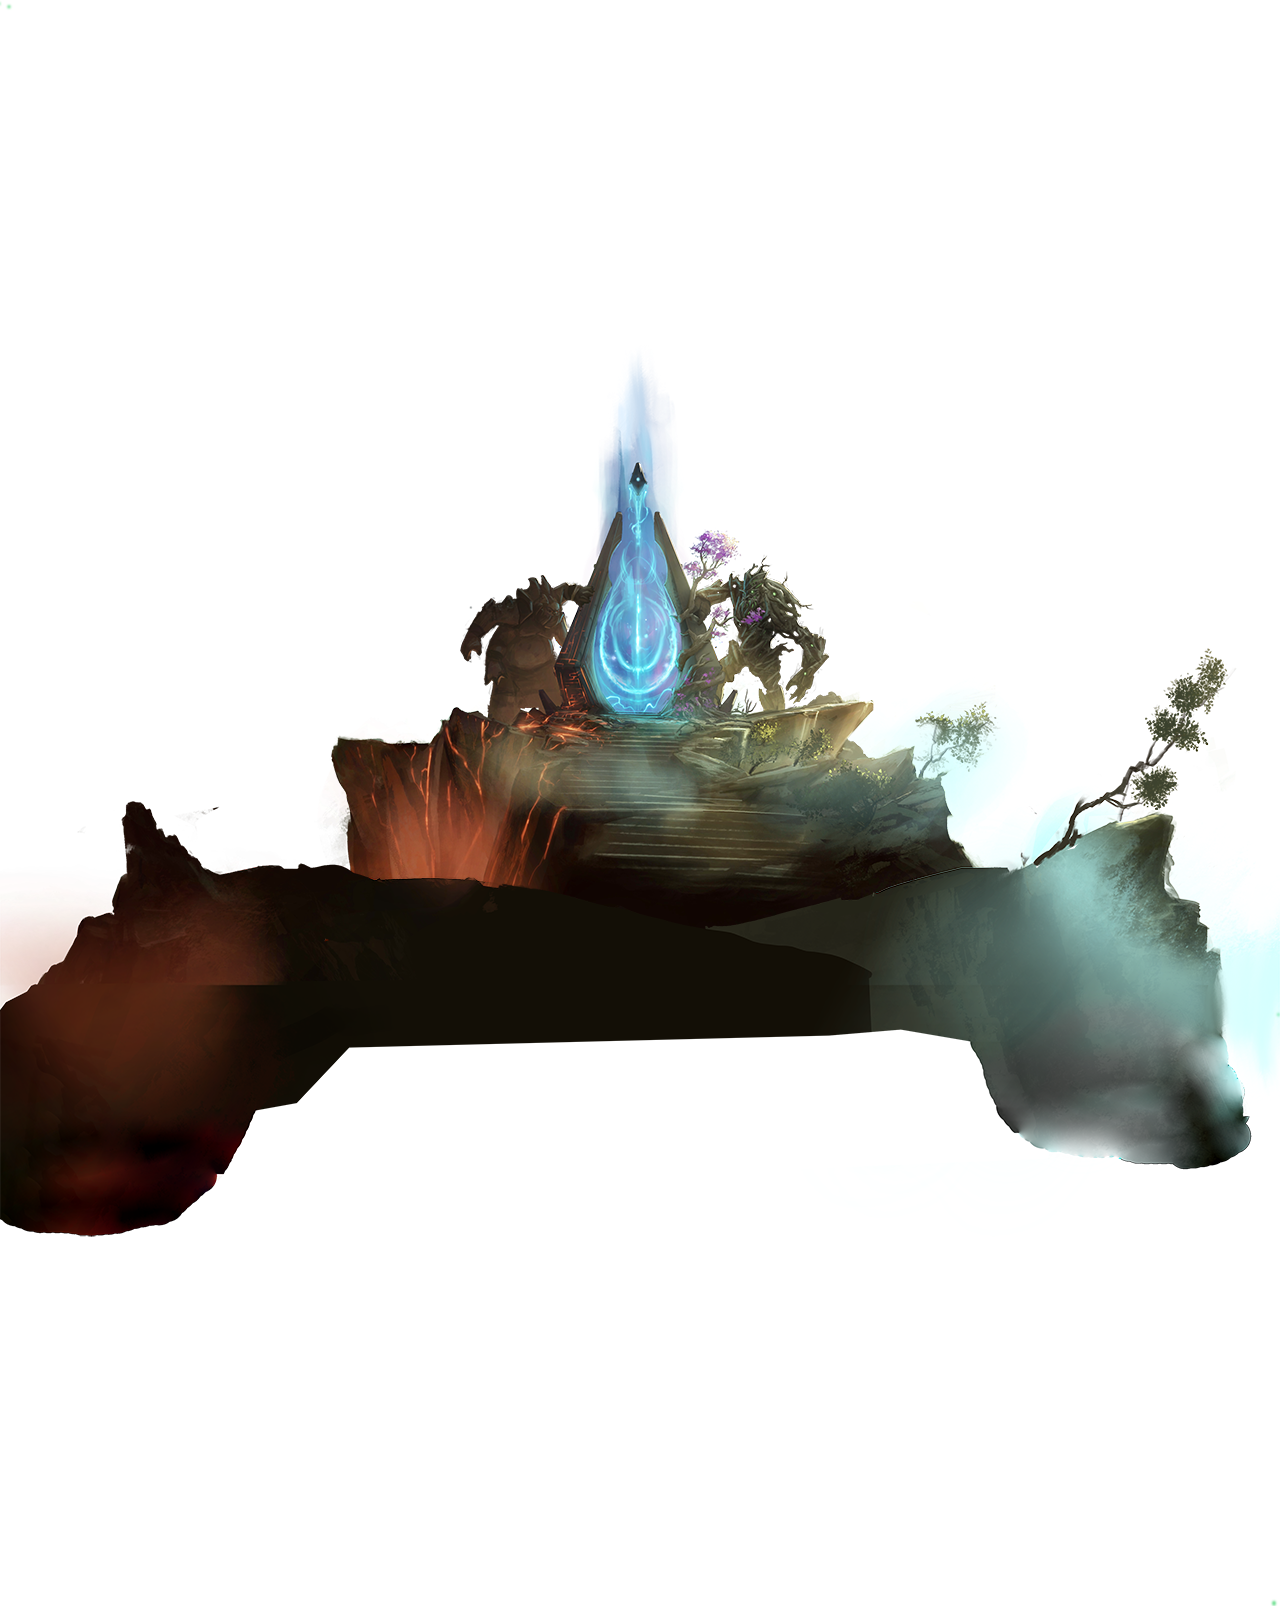
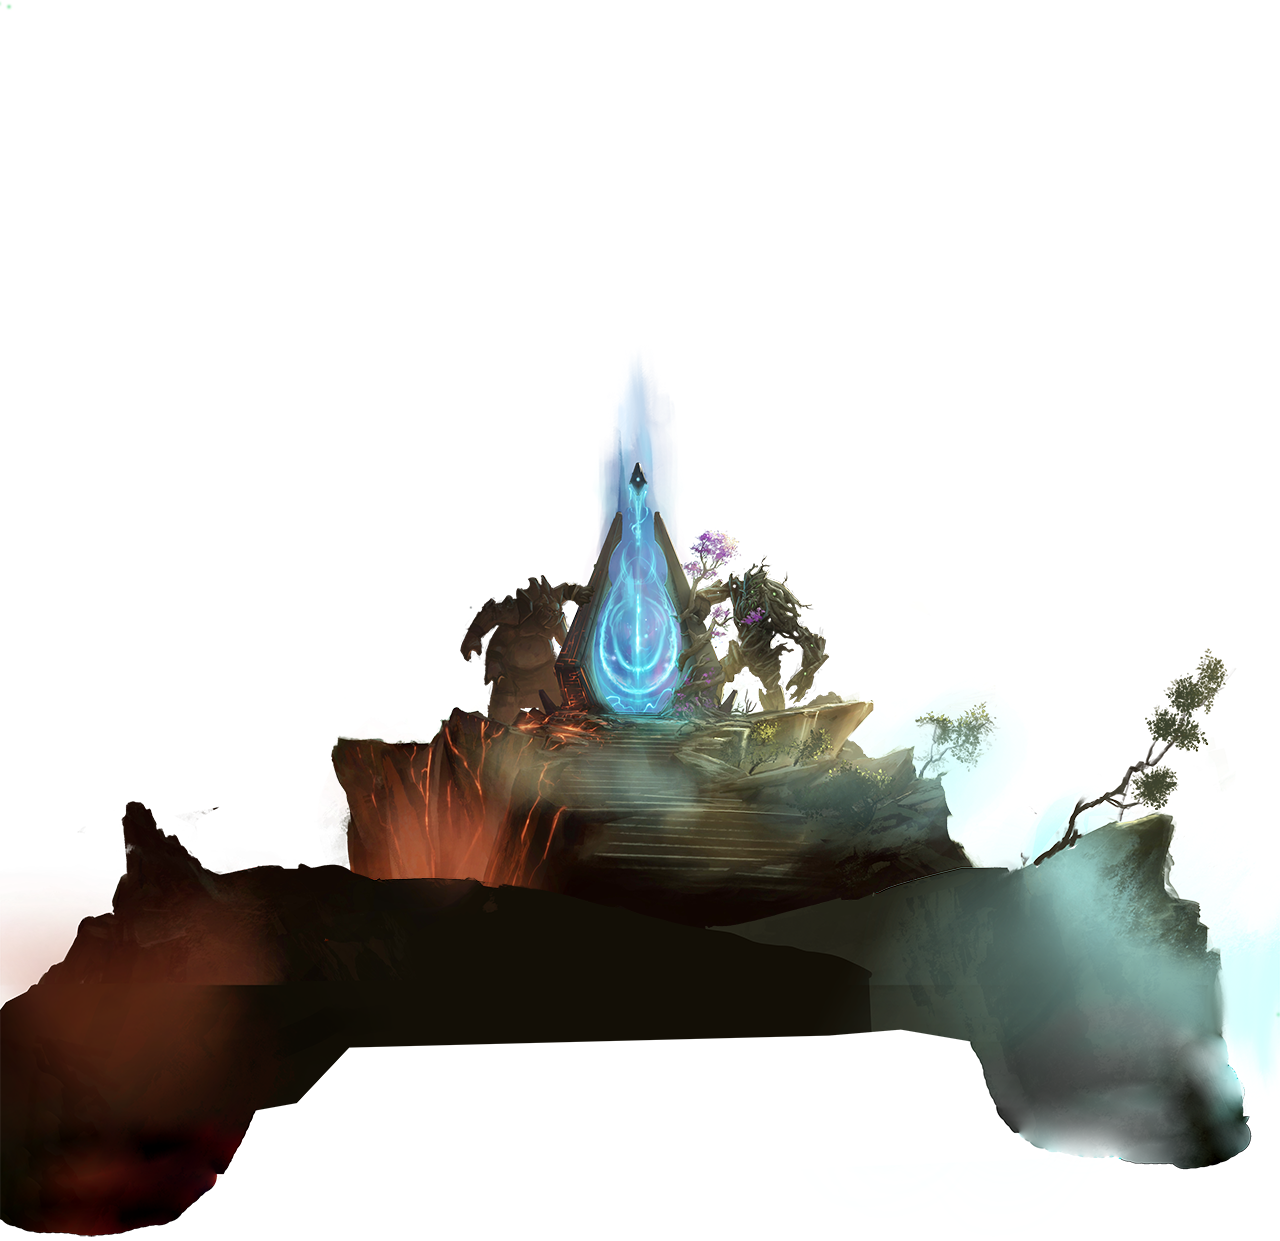
a bit of responsivity for header images

diff --git a/src/components/howItWorksPage/HeaderImg/Layer.tsx b/src/components/howItWorksPage/HeaderImg/Layer.tsx
@@ -1,3 +1,4 @@
+import { useEffect } from "react";
 import { layersType } from "../../../types/allTypes";
 interface props {
   data: layersType;
@@ -5,21 +6,50 @@ interface props {
   index: number;
 }
 const Layer: React.FC<props> = ({ data, top, index }) => {
-  const scales = data.image !== "1.png" && data.image !== "2.png" ? `scale(${1 - top / 100})` : "";
-  const translates = ( data.top - top * data.speed);
-  const styles = {
-    transform: `translateY(${translates}px) ${scales}`,
-  };
+  const scales = top / 100;
+  const translates = (-top * data.speed);
+
+  let styles = {};
+  if (index === 0) {
+    styles = {
+      transform: `translateY(${translates}vw)`,
+      top: data.top + "vw",
+    };
+  }
+  if (index === 1) {
+    styles = {
+      transform: `translateY(${translates}vw)`,
+      top: data.top + "vw",
+    };
+  }
+  if (index === 2) {
+    styles = {
+      transform: `translateY(${translates}vw) scale(${1 - scales*10})`,
+      top: data.top + "vw",
+    };
+  }
+  if (index === 3) {
+    styles = {
+      transform: `translateY(${translates}vw) scale(${1 - scales})`,
+      top: data.top + "vw",
+    };
+  }
+  if (index === 4) {
+    styles = {
+      transform: `translateY(${translates}vw) scale(${1 - scales})`,
+      left: "-15%",
+      top: data.top + "vw",
+      marginLeft: "0vw",
+      width: "140vw",
+      maxWidth: "140vw",
+    };
+  }
 
   return (
     <img
       src={"/media/layers/" + data.image}
       style={styles}
-      className={` transform-gpu w-full  ${
-        index === 0 ? "" : "absolute left-0 top-0"
-      }
-      ${data.image === "5.png" ? "left-1/2 ml-[-20vw] w-[140vw] !max-w-[140vw]" : ""}
-      `}
+      className={`transform-gpu w-full absolute`}
     />
   );
 };

diff --git a/src/components/howItWorksPage/HeaderImg/index.tsx b/src/components/howItWorksPage/HeaderImg/index.tsx
@@ -7,9 +7,9 @@ import throttle from "lodash/throttle";
 const HeaderImg: React.FC = () => {
   const [top, setTop] = useState(0);
   const topTransform = () => {
-    setTop(window.scrollY / 15);
+    setTop(window.scrollY / 300);
   };
-  console.log(top);
+
   useEffect(() => {
     window.addEventListener("scroll", throttle(topTransform, 10));
     return () => {
@@ -18,7 +18,8 @@ const HeaderImg: React.FC = () => {
   }, []);
 
   return (
-    <div className="w-full h-[1607px] flex justify-center items-start relative -mt-16 !overflow-hidden">
+    <div className="w-full h-[1000px] flex justify-center items-start relative -mt-16 !overflow-hidden"
+    style={{transform:`translateY(${-top*50})`}}>
       {layersData.map((data, index) => {
         return <Layer top={top} index={index} data={data} />;
       })}

diff --git a/src/store/allData.tsx b/src/store/allData.tsx
@@ -399,17 +399,17 @@ export const layersData: layersType[] = [
   {
     image: "3.png",
     speed: 6,
-    top:-400
+    top:-28
   },
   {
     image: "4.png",
     speed: 10,
-    top:-400
+    top:-28
   },
   {
     image: "5.png",
     speed: 20,
-    top:-400
+    top:-28
   },
 
 ];
